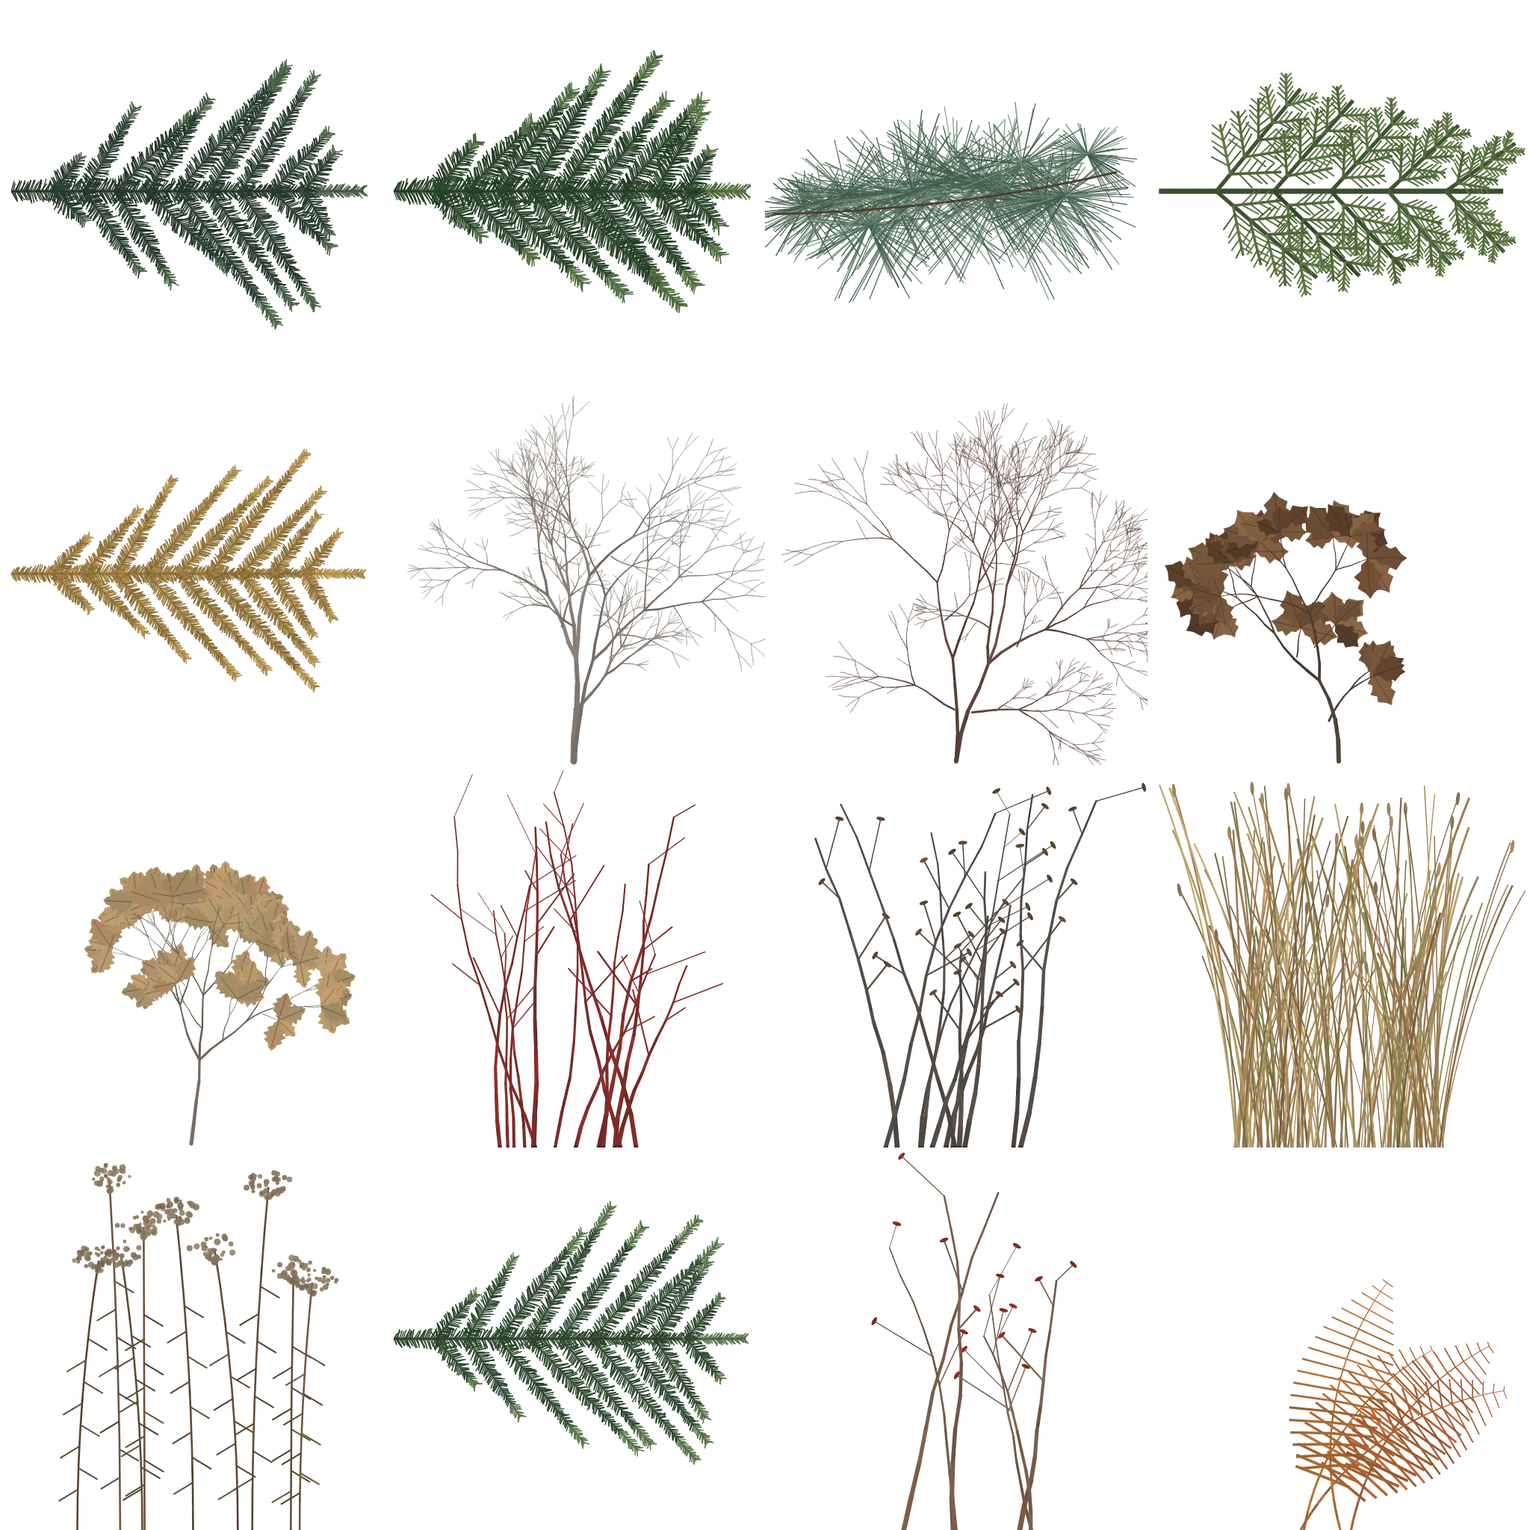
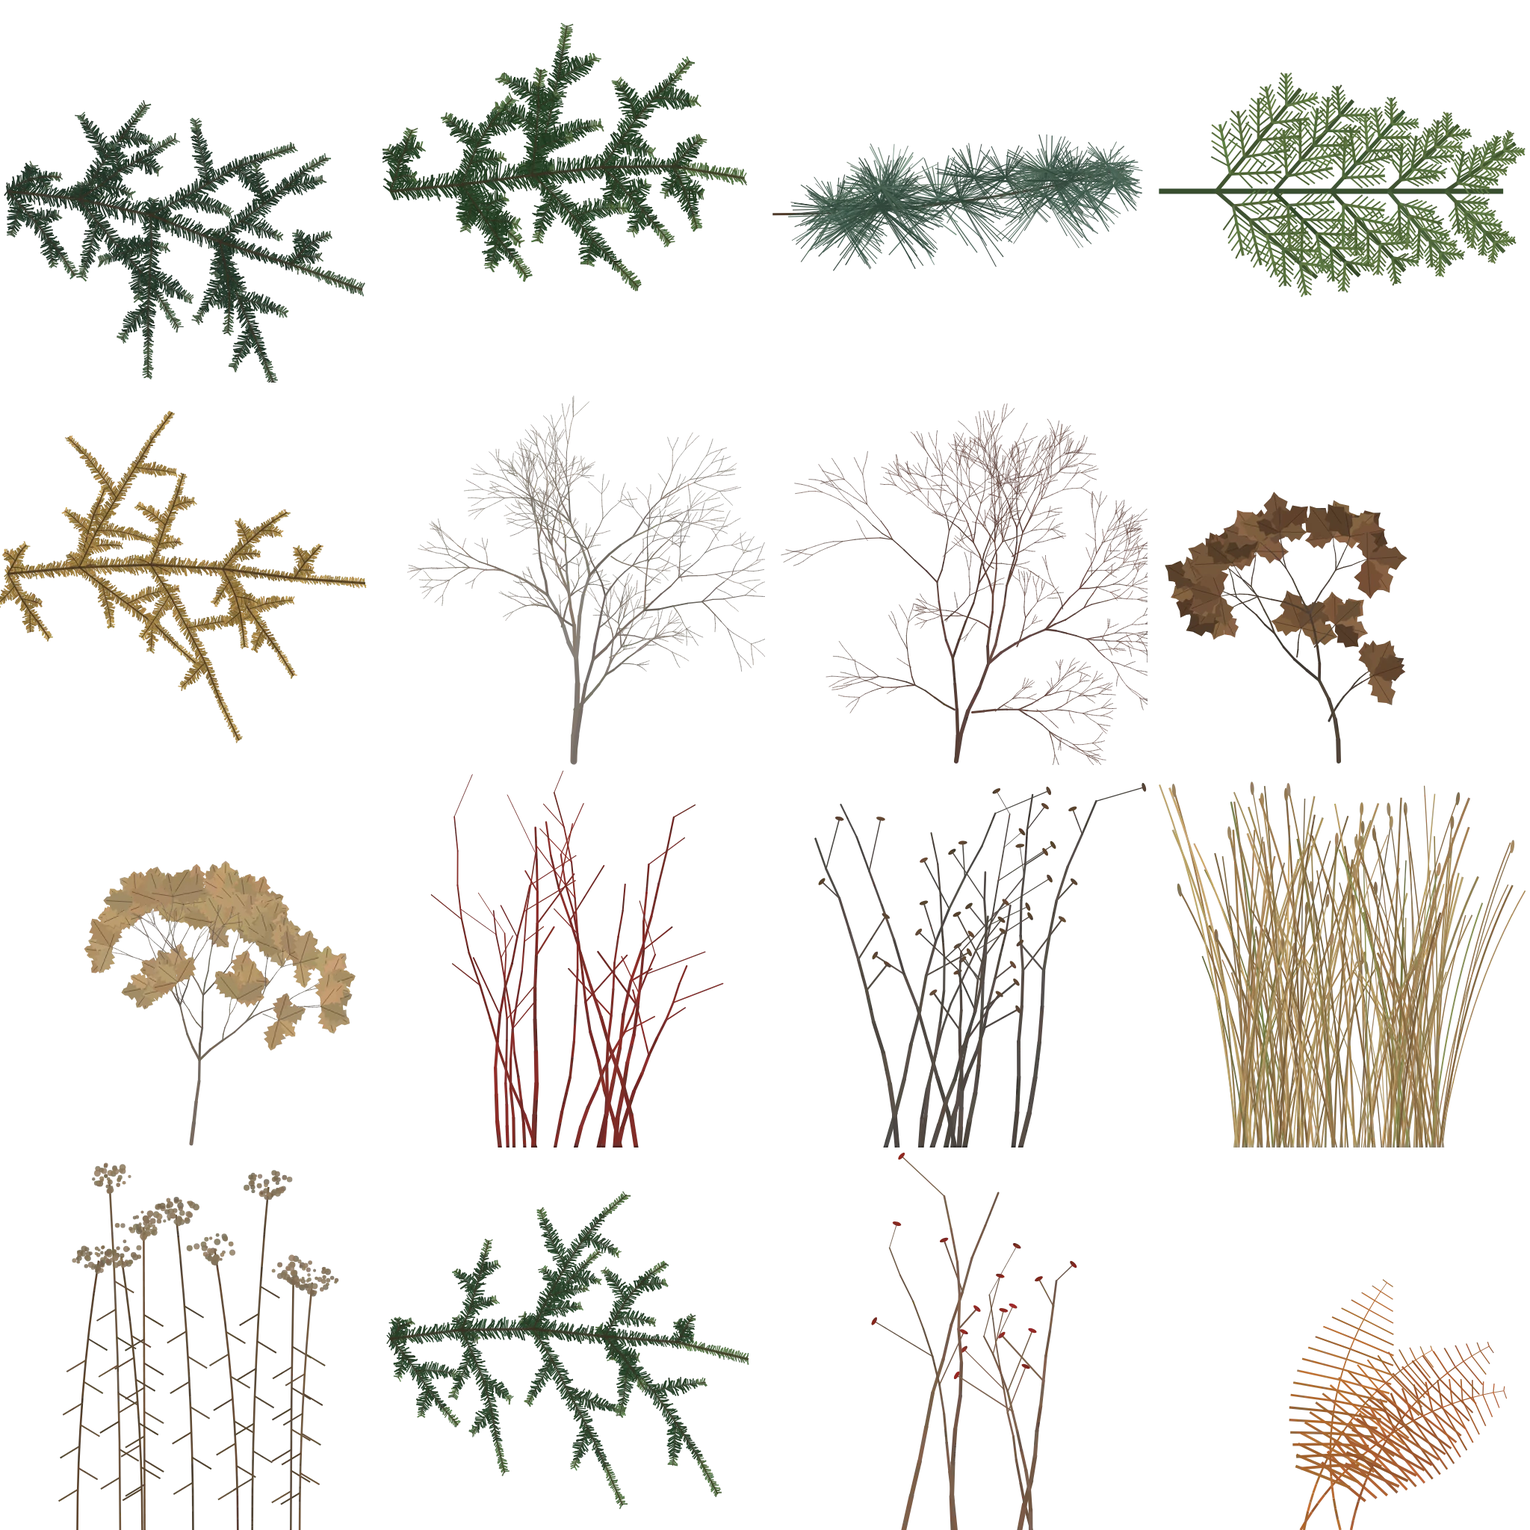
Game: lungs under the shoulder, lighter terrain mesh, smaller impostor atlas, grunts, range on misses, death pose
Claude-Session: https://claude.ai/code/session_01US54LDVGnjRK2dNWjWpcLh

diff --git a/game/world/foliageTextures.ts b/game/world/foliageTextures.ts
@@ -48,42 +48,82 @@ function drawNeedleTwig(g: CanvasRenderingContext2D, rnd: Rnd, x0: number, y0: n
 }
 
 function drawSpray(g: CanvasRenderingContext2D, rnd: Rnd, S: number, dark: [number, number, number], light: [number, number, number], needle: number, density = 1) {
-  // main branch from the left edge (attached to trunk) to the right (tip)
+  // A conifer branch seen from above/side: an irregular mass of twigs, each thick with short
+  // needles, darker toward the middle, with bright new growth at the tips.
   const y = S * 0.5;
-  const len = S * 0.92;
-  drawNeedleTwig(g, rnd, S * 0.03, y, 0, len, needle * 1.1, dark, light, 3, density);
-  const n = 9;
-  for (let i = 0; i < n; i++) {
-    const t = 0.12 + (i / n) * 0.8;
-    const bx = S * 0.03 + len * t;
-    const sl = S * 0.42 * Math.sin(Math.PI * Math.min(1, t * 1.05)) * (0.7 + rnd() * 0.35);
-    for (const side of [-1, 1]) {
-      const a = side * (0.75 + rnd() * 0.3);
-      drawNeedleTwig(g, rnd, bx, y, a, sl, needle, dark, light, 1.6, density);
+  const len = S * 0.94;
+  const tw = (x0: number, y0: number, a: number, l: number, depth: number, w: number) => {
+    const steps = 5;
+    let x = x0, yy = y0, ang = a;
+    const pts: [number, number, number][] = [];
+    for (let i = 0; i < steps; i++) {
+      ang += (rnd() - 0.5) * 0.25;
+      const nx = x + Math.cos(ang) * l / steps, ny = yy + Math.sin(ang) * l / steps + l * 0.012 * i; // slight droop
+      pts.push([x, yy, ang]);
+      x = nx; yy = ny;
     }
-  }
+    pts.push([x, yy, ang]);
+    // needles all along this twig
+    for (let i = 0; i < pts.length - 1; i++) {
+      const [px, py, pa] = pts[i];
+      const [qx, qy] = pts[i + 1];
+      const n = Math.ceil((Math.hypot(qx - px, qy - py) / 2.0) / density);
+      for (let k = 0; k < n; k++) {
+        const t = k / n, bx = px + (qx - px) * t, by = py + (qy - py) * t;
+        const along = (i + t) / (pts.length - 1);
+        const nl = needle * (0.55 + 0.45 * Math.sin(Math.PI * Math.min(1, along * 1.2 + 0.1))) * (0.7 + rnd() * 0.5) * (depth ? 0.8 : 1);
+        for (const side of [-1, 1]) {
+          const na = pa + side * (0.7 + rnd() * 0.8);
+          const tip = along > 0.8;
+          g.strokeStyle = tip ? jitter(rnd, light, 0.3) : jitter(rnd, dark, 0.4);
+          g.lineWidth = 1.2 + rnd() * 0.9;
+          g.beginPath(); g.moveTo(bx, by); g.lineTo(bx + Math.cos(na) * nl, by + Math.sin(na) * nl); g.stroke();
+        }
+      }
+    }
+    // side twigs
+    if (depth < 2) {
+      const kids = depth === 0 ? 11 : 4;
+      for (let k = 0; k < kids; k++) {
+        const t = 0.1 + 0.85 * (k / kids) + (rnd() - 0.5) * 0.06;
+        const i = Math.min(pts.length - 1, Math.floor(t * (pts.length - 1)));
+        const [px, py, pa] = pts[i];
+        const shape = Math.sin(Math.PI * Math.min(1, t * 1.05)) * (0.6 + rnd() * 0.55);
+        const sl = l * (depth === 0 ? 0.52 : 0.4) * shape;
+        if (sl < needle) continue;
+        const side = k % 2 ? 1 : -1;
+        tw(px, py, pa + side * (0.75 + rnd() * 0.5), sl, depth + 1, w * 0.6);
+      }
+    }
+    g.strokeStyle = rgb(62, 46, 34, 0.8);
+    g.lineWidth = w;
+    g.beginPath(); g.moveTo(pts[0][0], pts[0][1]); for (const q of pts) g.lineTo(q[0], q[1]); g.stroke();
+  };
+  tw(S * 0.02, y, (rnd() - 0.5) * 0.1, len, 0, 3);
 }
 
 function drawPineTuft(g: CanvasRenderingContext2D, rnd: Rnd, S: number) {
-  // white pine: soft long needles in bundles along a gently upturned twig
-  const tufts = 14;
+  // white pine: soft, long blue-green needles in clumpy bundles along an upturned twig
+  g.strokeStyle = rgb(80, 60, 45); g.lineWidth = 3;
+  g.beginPath(); g.moveTo(S * 0.02, S * 0.56); g.quadraticCurveTo(S * 0.5, S * 0.56, S * 0.94, S * 0.44); g.stroke();
+  const tufts = 26;
   for (let k = 0; k < tufts; k++) {
-    const t = k / tufts;
-    const cx = S * (0.1 + 0.8 * t), cy = S * (0.55 - 0.1 * t) + (rnd() - 0.5) * S * 0.12;
-    const r = S * (0.12 + 0.12 * Math.sin(Math.PI * t)) * (0.8 + rnd() * 0.4);
-    for (let i = 0; i < 70; i++) {
-      const a = -Math.PI * 0.5 + (rnd() - 0.5) * Math.PI * 1.7;
-      const l = r * (0.6 + rnd() * 0.5);
-      g.strokeStyle = jitter(rnd, rnd() < 0.3 ? [120, 145, 128] : [70, 98, 80], 0.3, 0.95);
-      g.lineWidth = 1 + rnd() * 0.5;
+    const t = rnd();
+    const cx = S * (0.08 + 0.86 * t), cy = S * (0.56 - 0.1 * t) + (rnd() - 0.5) * S * 0.1;
+    const r = S * (0.08 + 0.1 * Math.sin(Math.PI * t)) * (0.7 + rnd() * 0.5);
+    const shade = rnd();
+    for (let i = 0; i < 45; i++) {
+      const a = -Math.PI * 0.5 + (rnd() - 0.5) * Math.PI * 1.6;
+      const l = r * (0.55 + rnd() * 0.5);
+      const base: [number, number, number] = shade < 0.35 ? [52, 74, 62] : shade < 0.8 ? [72, 98, 84] : [104, 130, 112];
+      g.strokeStyle = jitter(rnd, base, 0.25, 0.9);
+      g.lineWidth = 0.9 + rnd() * 0.5;
       g.beginPath();
       g.moveTo(cx, cy);
-      g.quadraticCurveTo(cx + Math.cos(a) * l * 0.5, cy + Math.sin(a) * l * 0.5 + l * 0.12, cx + Math.cos(a) * l, cy + Math.sin(a) * l + l * 0.25);
+      g.quadraticCurveTo(cx + Math.cos(a) * l * 0.5, cy + Math.sin(a) * l * 0.5 + l * 0.15, cx + Math.cos(a) * l, cy + Math.sin(a) * l + l * 0.3);
       g.stroke();
     }
   }
-  g.strokeStyle = rgb(80, 60, 45); g.lineWidth = 3;
-  g.beginPath(); g.moveTo(S * 0.02, S * 0.56); g.quadraticCurveTo(S * 0.5, S * 0.55, S * 0.92, S * 0.45); g.stroke();
 }
 
 function drawCedar(g: CanvasRenderingContext2D, rnd: Rnd, S: number) {
@@ -335,7 +375,11 @@ export function coverageMipmapTexture(src: HTMLCanvasElement, cutoff: number): T
   };
   const target: number[] = [];
   const cs0 = W0 / cells;
-  for (let i = 0; i < cells * cells; i++) target.push(cover(L0, (i % cells) * cs0, Math.floor(i / cells) * cs0, cs0, 1));
+  // bare twigs should thin to a see-through haze in the distance, needles stay solid
+  const keep: Record<number, number> = { [Card.TwigMaple]: 0.5, [Card.TwigFine]: 0.5, [Card.Dogwood]: 0.7, [Card.Alder]: 0.7, [Card.Sumac]: 0.7, [Card.Goldenrod]: 0.8 };
+  // (cells are counted from the bottom here because the rows were flipped)
+  const cardOf = (i: number) => (cells - 1 - Math.floor(i / cells)) * cells + (i % cells);
+  for (let i = 0; i < cells * cells; i++) target.push(cover(L0, (i % cells) * cs0, Math.floor(i / cells) * cs0, cs0, 1) * (keep[cardOf(i)] ?? 1));
   // build the chain: alpha-weighted colour averages, then restore each cell's alpha-test coverage
   const levels: Level[] = [L0];
   while (levels[levels.length - 1].w > 1) {

diff --git a/game/engine/Game.ts b/game/engine/Game.ts
@@ -123,7 +123,7 @@ export class Game {
       await new Promise((r) => setTimeout(r, 0));
     };
     await step(0.05, "Sky");
-    this.sky = buildSky(this.scene, { azimuth: 222, elevation: 13 });
+    this.sky = buildSky(this.scene, { azimuth: 236, elevation: 12 }); // early-November late afternoon, WSW
     await step(0.08, "Textures");
     this.photos = await loadPhotos(this.renderer.capabilities.getMaxAnisotropy(), (d, n) => onProgress(0.08 + 0.1 * (d / n), "Textures"));
     await step(0.18, "Ground");
@@ -144,9 +144,38 @@ export class Game {
     this.rocks = new Rocks(this.terrain.heightAt, this.photos);
     this.scene.add(this.rocks.group);
     console.log(`[g] forest: ${this.forest.count} trees, ${this.forest.models.length} models`);
+    this.addStandRail();
     await step(0.92, "Deer");
     this.deerAsset = buildDeerAsset(noise);
     await step(1, "Ready");
+  }
+
+  /** The ladder stand's padded shooting rail across the bottom of the open view (not in the scope). */
+  private addStandRail() {
+    const g = new THREE.Group();
+    const pad = new THREE.MeshStandardMaterial({ color: "#3b3a2c", roughness: 0.95 });
+    const steel = new THREE.MeshStandardMaterial({ color: "#2a2b27", roughness: 0.6, metalness: 0.4 });
+    const rail = new THREE.Mesh(new THREE.CapsuleGeometry(0.045, 1.5, 6, 12), pad);
+    rail.rotation.z = Math.PI / 2;
+    rail.position.set(0, -0.62, -0.78);
+    // stitched seams on the padding: a few darker rings
+    for (let i = -3; i <= 3; i++) {
+      const ring = new THREE.Mesh(new THREE.TorusGeometry(0.046, 0.004, 6, 16), steel);
+      ring.rotation.y = Math.PI / 2;
+      ring.position.set(i * 0.22, -0.62, -0.78);
+      g.add(ring);
+    }
+    for (const x of [-0.78, 0.78]) {
+      const post = new THREE.Mesh(new THREE.CylinderGeometry(0.018, 0.018, 0.9, 8), steel);
+      post.position.set(x, -1.05, -0.7);
+      post.rotation.x = -0.25;
+      g.add(post);
+    }
+    g.add(rail);
+    g.traverse((o) => { o.layers.set(1); });
+    g.position.copy(this.eye);
+    this.scene.add(g);
+    this.wideCam.layers.enable(1);
   }
 
   resize() {
@@ -309,7 +338,7 @@ export class Game {
           const range = p.distanceTo(this.eye);
           if (range < 450) impactSound(range / 337, range);
           // landed short of the buck it was aimed at: that's a low miss
-          if (bl.aimed && bl.miss === null) bl.miss = p.distanceTo(this.eye) < bl.aimedDist - 3 ? "low – hit the dirt in front of him" : "";
+          if (bl.aimed && bl.miss === null) bl.miss = p.distanceTo(this.eye) < bl.aimedDist - 3 ? `low – hit the dirt in front of him. He was ${Math.round(bl.aimedDist / 5) * 5} m away` : "";
           this.hunt?.impact(p, bl.miss ?? "");
         } else if (bl.s.t > 4) {
           bl.alive = false;
@@ -338,7 +367,8 @@ export class Game {
       if (Math.abs(across) > 0.5) parts.push(`${fmt(lat)} ${Math.sign(lat) === Math.sign(across) ? "ahead" : "behind"}`);
       else parts.push(`${fmt(lat)} ${lat > 0 ? "right" : "left"}`);
     }
-    return parts.join(" · ");
+    const range = Math.round(chest.distanceTo(this.eye) / 5) * 5;
+    return `${parts.join(" · ")}${parts.length ? " – " : ""}he was ${range} m away`;
   }
 
   // ---------- hunt ----------

diff --git a/game/world/terrain.ts b/game/world/terrain.ts
@@ -5,12 +5,14 @@ import { buildGroundCache, type Ground, sampleGround, sampleGroundFast } from ".
 import { smoothstep } from "./noise";
 
 const R0 = 3;           // first ring, m
-const RATIO = 1.02;     // each ring is 2% farther than the last...
-const R_FAR = 1700;     // ...until the far bush, where rings spread out faster
+const R_NEAR = 60;      // under the stand rings can be coarser (the ground there is out of view)
+const RATIO_NEAR = 1.035;
+const RATIO = 1.02;     // each ring 2% farther than the last across the field...
+const R_FAR = 1700;     // ...then the far bush, where rings spread out faster
 const RATIO_FAR = 1.04;
 const R_MAX = 9000;
 const ANG = (62 * Math.PI) / 180; // half-width of the covered wedge
-const DA = (0.25 * Math.PI) / 180;
+const DA = (0.3 * Math.PI) / 180;
 
 export type Terrain = {
   mesh: THREE.Mesh;
@@ -21,7 +23,7 @@ export type Terrain = {
 export function buildTerrain(material: THREE.Material): Terrain {
   buildGroundCache();
   const radii: number[] = [];
-  for (let r = R0; r < R_MAX * RATIO_FAR; r *= r < R_FAR ? RATIO : RATIO_FAR) radii.push(r);
+  for (let r = R0; r < R_MAX * RATIO_FAR; r *= r < R_NEAR ? RATIO_NEAR : r < R_FAR ? RATIO : RATIO_FAR) radii.push(r);
   const rings = radii.length;
   const cols = Math.round((2 * ANG) / DA) + 1;
   const n = rings * cols;
@@ -68,11 +70,11 @@ export function buildTerrain(material: THREE.Material): Terrain {
   mesh.receiveShadow = true;
   mesh.frustumCulled = false;
 
-  const lnRatio = Math.log(RATIO), lnFar = Math.log(RATIO_FAR);
-  const iFar = radii.findIndex((r) => r >= R_FAR);
+  // fractional ring index: binary search, then linear between rings (exactly how the mesh is built)
   const ringOf = (r: number) => {
-    if (r < radii[iFar]) return Math.log(r / R0) / lnRatio;
-    return iFar + Math.log(r / radii[iFar]) / lnFar;
+    let lo = 0, hi = rings - 1;
+    while (hi - lo > 1) { const m = (lo + hi) >> 1; if (radii[m] <= r) lo = m; else hi = m; }
+    return lo + Math.min(1, Math.max(0, (r - radii[lo]) / (radii[hi] - radii[lo])));
   };
   const heightAt = (x: number, z: number) => {
     const r = Math.max(R0, Math.hypot(x, z));

diff --git a/game/deer/Deer.ts b/game/deer/Deer.ts
@@ -8,7 +8,7 @@ import { nearestCover, type P2 } from "./routes";
 import { primDist, type Prim } from "./sdf";
 import { primaryZone, ZONES, type Gait, type Outcome, type Zone } from "../scoring";
 import { SPEED_OF_SOUND } from "../ballistics";
-import { snortSound } from "../engine/audio";
+import { gruntSound, snortSound } from "../engine/audio";
 
 export type DeerState = "travel" | "feed" | "look" | "alert" | "flee" | "kick" | "wounded" | "dying" | "dead" | "gone";
 
@@ -47,6 +47,7 @@ export class Deer {
   private antlerSegs: [THREE.Vector3, THREE.Vector3, number][];
   private pendingSounds: { at: number; fn: () => void }[] = [];
   private clock = 0;
+  private gruntT = 4 + Math.random() * 10;
 
   constructor(readonly id: number, asset: DeerAsset, readonly rack: Rack, route: P2[], private world: World, private events: DeerEvents, rnd: () => number) {
     this.rig = makeRig(asset);
@@ -114,6 +115,13 @@ export class Deer {
       case "travel":
         target = this.travelSpeed;
         this.nextStop -= dt;
+        // rutting bucks grunt now and then while they cruise
+        this.gruntT -= dt;
+        if (this.gruntT <= 0) {
+          this.gruntT = 12 + Math.random() * 25;
+          const dist = this.pos.distanceTo(this.world.eye);
+          if (dist < 320 && this.travelSpeed < 5 && Math.random() < 0.6) gruntSound(dist / SPEED_OF_SOUND, dist);
+        }
         if (this.nextStop <= 0 && this.wp > 2 && this.wp < this.route.length - 1) {
           const r = Math.random();
           this.state = r < 0.55 ? "feed" : "look";

diff --git a/game/world/forest.ts b/game/world/forest.ts
@@ -275,13 +275,7 @@ export class Forest {
 
   /** Render every model once, from the south, into albedo + normal atlases. */
   private bakeImpostors(atlas: THREE.Texture, barks: Map<BarkKind, BarkLook>) {
-    const W = 2048, H = 2048, CELL_H = 384;
-    const mk = (srgb: boolean) => {
-      const rt = new THREE.WebGLRenderTarget(W, H, { samples: 4, generateMipmaps: true, minFilter: THREE.LinearMipmapLinearFilter });
-      if (srgb) rt.texture.colorSpace = THREE.SRGBColorSpace;
-      return rt;
-    };
-    const albedoRT = mk(true), normalRT = mk(false);
+    const W = 2048, CELL_H = 384;
     const scene = new THREE.Scene();
     const cam = new THREE.OrthographicCamera(-1, 1, 1, -1, 0.1, 200);
     cam.position.set(0, 0, 100);
@@ -301,6 +295,15 @@ export class Forest {
       layout.push({ x: px, y: py, w: cw, h: CELL_H, box });
       px += cw + 2;
     }
+    // only as tall as needed; no multisampling (it would keep ~4× the memory allocated on phones)
+    const H = py + CELL_H;
+    const mk = (srgb: boolean) => {
+      const rt = new THREE.WebGLRenderTarget(W, H, { samples: 0, generateMipmaps: true, minFilter: THREE.LinearMipmapLinearFilter });
+      if (srgb) rt.texture.colorSpace = THREE.SRGBColorSpace;
+      return rt;
+    };
+    const albedoRT = mk(true), normalRT = mk(false);
+    if (location.search.includes("debug")) console.log(`[t]   impostor atlas ${W}x${H}`);
     const rd = this.renderer;
     const prevTone = rd.toneMapping;
     rd.toneMapping = THREE.NoToneMapping;

diff --git a/game/deer/anim.ts b/game/deer/anim.ts
@@ -271,12 +271,14 @@ export class DeerAnimator {
     lie.position.set(0, 0.07 * e, 0);
     // legs relax, slightly bent, sticking out
     for (const s of ["L", "R"]) {
-      B[`hum${s}`].rotation.x = B[`hum${s}`].rotation.x * (1 - e) + 0.25 * e;
-      B[`rad${s}`].rotation.x = B[`rad${s}`].rotation.x * (1 - e) - 0.35 * e;
-      B[`canF${s}`].rotation.x = B[`canF${s}`].rotation.x * (1 - e) + 0.2 * e;
-      B[`fem${s}`].rotation.x = B[`fem${s}`].rotation.x * (1 - e) - 0.3 * e;
-      B[`tib${s}`].rotation.x = B[`tib${s}`].rotation.x * (1 - e) + 0.25 * e;
-      B[`met${s}`].rotation.x = B[`met${s}`].rotation.x * (1 - e) - 0.1 * e;
+      // legs stretched out, a little bent, the top pair slightly forward
+      const top = (s === "L") === (this.deathSide < 0) ? 1 : 0;
+      B[`hum${s}`].rotation.x = B[`hum${s}`].rotation.x * (1 - e) + (-0.15 - 0.25 * top) * e;
+      B[`rad${s}`].rotation.x = B[`rad${s}`].rotation.x * (1 - e) - 0.12 * e;
+      B[`canF${s}`].rotation.x = B[`canF${s}`].rotation.x * (1 - e) + 0.08 * e;
+      B[`fem${s}`].rotation.x = B[`fem${s}`].rotation.x * (1 - e) + (0.1 - 0.2 * top) * e;
+      B[`tib${s}`].rotation.x = B[`tib${s}`].rotation.x * (1 - e) + 0.12 * e;
+      B[`met${s}`].rotation.x = B[`met${s}`].rotation.x * (1 - e) - 0.05 * e;
     }
     B.neck1.rotation.x = B.neck1.rotation.x * (1 - e) + 0.75 * e;
     B.neck1.rotation.y = B.neck1.rotation.y * (1 - e) - side * 0.5 * e;

diff --git a/game/deer/anatomy.ts b/game/deer/anatomy.ts
@@ -117,8 +117,9 @@ export const ORGANS: Organ[] = [
   // heart: low in the chest, just behind the front leg
   { zone: "heart", prim: ell([0.01, 0.675, 0.33], [0.055, 0.075, 0.065], "spine2", 0, "") },
   // lungs fill the upper rib cage
-  { zone: "lungs", prim: ell([0.06, 0.82, 0.2], [0.085, 0.165, 0.2], "spine2", 0, "") },
-  { zone: "lungs", prim: ell([-0.06, 0.82, 0.2], [0.085, 0.165, 0.2], "spine2", 0, "") },
+  // (they reach forward under the shoulder blade, so a shoulder shot usually takes the lungs too)
+  { zone: "lungs", prim: ell([0.06, 0.82, 0.22], [0.085, 0.165, 0.235], "spine2", 0, "") },
+  { zone: "lungs", prim: ell([-0.06, 0.82, 0.22], [0.085, 0.165, 0.235], "spine2", 0, "") },
   { zone: "liver", prim: ell([-0.02, 0.77, -0.01], [0.13, 0.11, 0.075], "spine1", 0, "") },
   { zone: "paunch", prim: ell([0, 0.75, -0.18], [0.15, 0.17, 0.2], "spine1", 0, "") },
   // spine along the top of the back and up the neck

diff --git a/game/engine/audio.ts b/game/engine/audio.ts
@@ -141,6 +141,19 @@ export function snortSound(delay: number, range: number) {
   if (Math.random() < 0.6) burst(t + 0.9, 0.35, g * 0.8, "bandpass", 1000, 1.2, 0.5, 6);
 }
 
+/** A rutting buck's grunt: short, low, guttural. */
+export function gruntSound(delay: number, range: number) {
+  if (!ctx) return;
+  const g = Math.max(0.02, Math.min(0.25, 25 / range));
+  const t = ctx.currentTime + delay;
+  const n = 1 + Math.floor(Math.random() * 3);
+  for (let i = 0; i < n; i++) {
+    const at = t + i * 0.55;
+    tone(at, 105, 82, 0.32, g, "sawtooth", 0.5);
+    burst(at, 0.3, g * 0.6, "lowpass", 320, 0.8, 0.5, 8);
+  }
+}
+
 // ---------- ambience ----------
 
 export function startAmbience() {

diff --git a/game/world/groundMaterial.ts b/game/world/groundMaterial.ts
@@ -84,7 +84,9 @@ vec3 photo2(sampler2D t, vec2 p, float s, float mixer) {
     if (open > 0.01 && tall < 0.99) {
       // hay field: dry ground, a little greener, with mowing rows
       vec3 g = photo2(uGround, p, 0.25, nMid.b);
-      hayC = g * vec3(1.08, 1.06, 0.82) * mix(0.88, 1.1, nMid.r);
+      // November stubble: straw and tan with grey patches, only a hint of green
+      hayC = mix(g * vec3(1.12, 0.98, 0.72), vec3(0.47, 0.39, 0.25), 0.4) * mix(0.84, 1.12, nMid.r);
+      hayC = mix(hayC, hayC * vec3(0.9, 0.92, 0.95), smoothstep(0.55, 0.8, nMid.a));
       hayC *= 0.9 + 0.1 * sin(p.x * 0.9 + nBig.g * 6.0);
     }
     if (open < 0.99 || brush > 0.01) {

diff --git a/game/anatomy.test.ts b/game/anatomy.test.ts
@@ -39,6 +39,10 @@ test("too far back: liver, then gut, then the hindquarter", () => {
   assert.equal(side(0.8, -0.48), "ham");
 });
 
+test("a shot through the middle of the shoulder takes the lungs", () => {
+  assert.equal(side(0.84, 0.4), "lungs");
+});
+
 test("legs only wound", () => {
   assert.equal(side(0.25, 0.345), "leg");
   assert.equal(side(0.3, -0.46), "leg");

diff --git a/game/world/sky.ts b/game/world/sky.ts
@@ -114,7 +114,7 @@ export function buildSky(scene: THREE.Scene, opts: { azimuth: number; elevation:
   scene.add(hemi);
 
   const fogColor = new THREE.Color(0.68, 0.74, 0.82);
-  scene.fog = new THREE.FogExp2(fogColor, 0.00011);
+  scene.fog = new THREE.FogExp2(fogColor, 0.00022);
 
   return {
     sky, clouds, sun, hemi, sunDir, fogColor,
